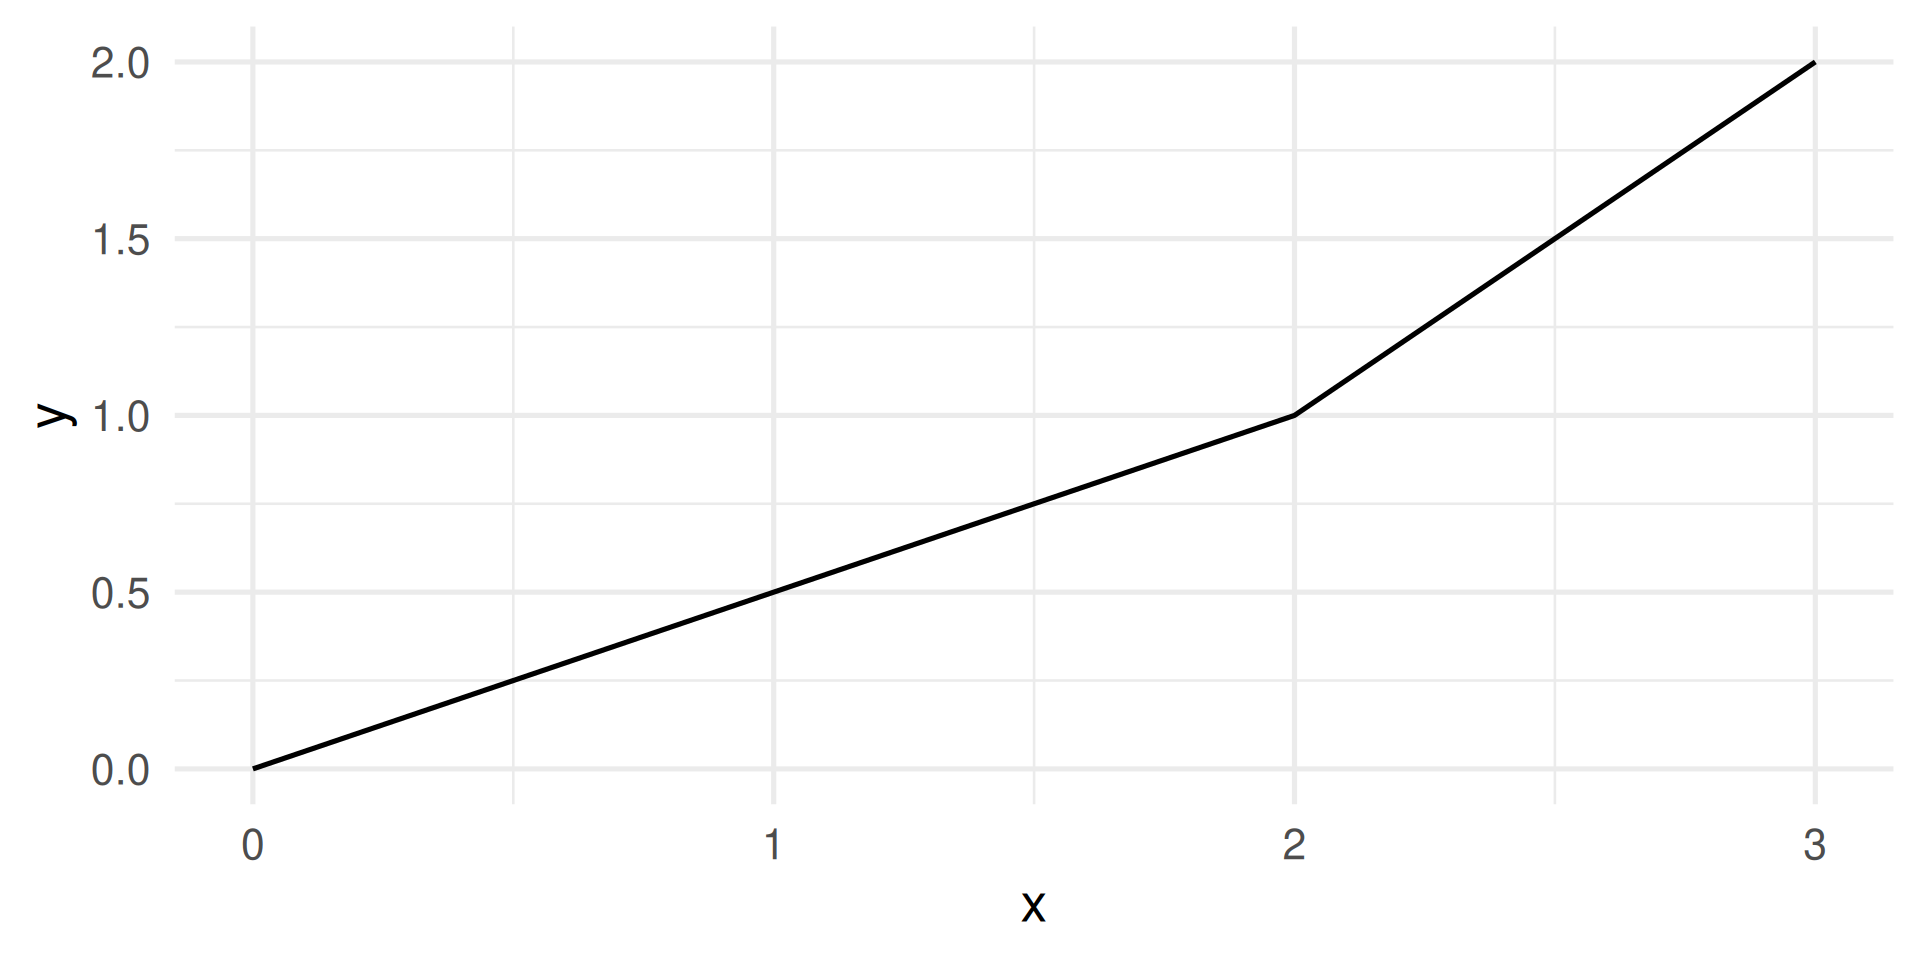
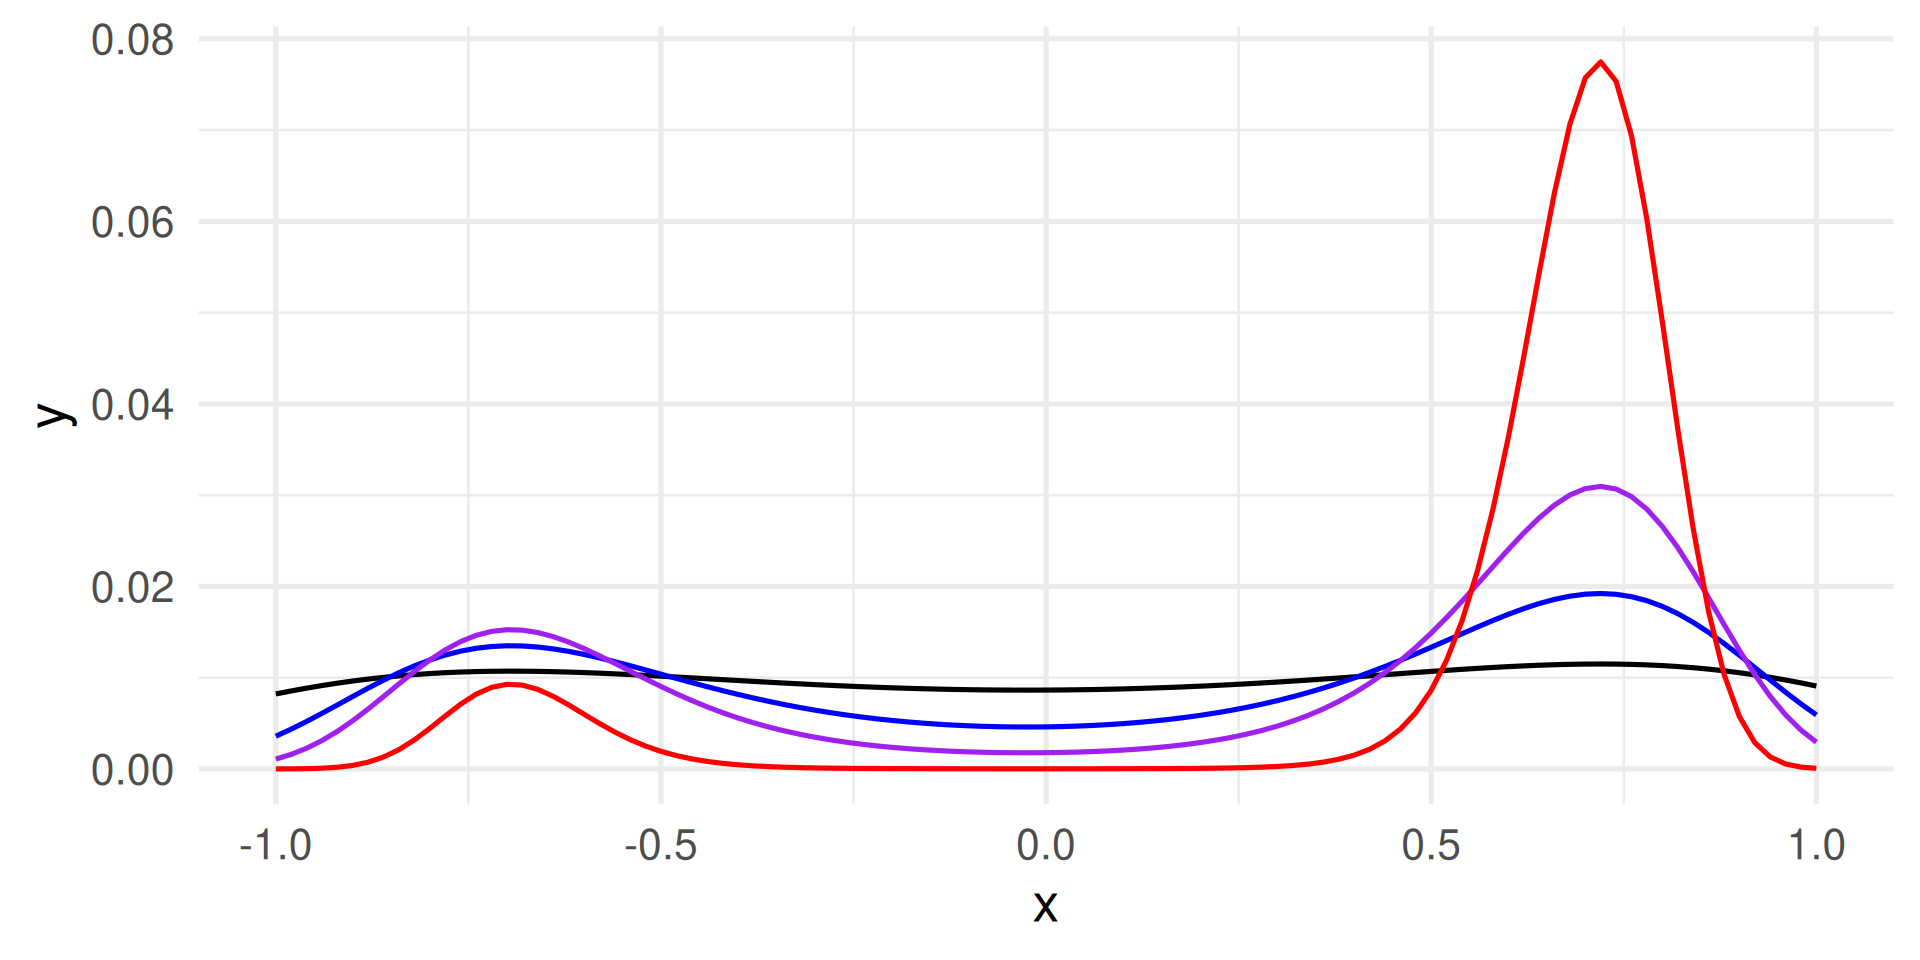
Built site for gh-pages

diff --git a/lectures/W04.html b/lectures/W04.html
@@ -1646,7 +1646,7 @@ You can think of the <em>coordinate system being stretched</em> multiplicatively
 </div>
 </div><div class="column fragment">
 <p>The domain of <span class="math inline">\(x\)</span> is the interval <span class="math inline">\([-1,+1]\)</span>.</p>
-<p><span class="math-red"><span class="math inline">\(\max\)</span></span> reports the maximal number of a <span class="math inline">\(f(x)\)</span> given the domain of <span class="math inline">\(x\)</span></p>
+<p><span class="math-red"><span class="math inline">\(\max\)</span></span> reports the maximum of <span class="math inline">\(f(x)\)</span> given the values in the domain of <span class="math inline">\(x\)</span></p>
 <p><span class="math inline">\(\max\limits_{x\in[-1,+1]} f(x) = 0.2849\)</span></p>
 <p><span class="math-blue"><span class="math inline">\(\operatorname*{argmax}\)</span></span> reports the value of <span class="math inline">\(x\)</span> from its domain where <span class="math inline">\(f(x)\)</span> achieves its maximal value</p>
 <p><span class="math inline">\(\operatorname*{argmax}\limits_{x\in[-1,1]} f(x) = 0.7\)</span></p>
@@ -1654,7 +1654,7 @@ You can think of the <em>coordinate system being stretched</em> multiplicatively
 <div class="fragment">
 <ul>
 <li>Analog concepts for the minimum <span class="math inline">\(\min\)</span></li>
-<li>Warning: The result for <span class="math inline">\(\operatorname*{argmax}\)</span> is not mathematically precise because computationally we only have <span class="math inline">\(x\)</span>-values in steps of 0.05.</li>
+<li>Warning: The result for <span class="math inline">\(\operatorname*{argmax}\)</span> is not mathematically precise because computationally we only have <span class="math inline">\(x\)</span>-values in steps of 0.05, in this computation.</li>
 </ul>
 </div>
 </section>
@@ -1770,7 +1770,7 @@ You can think of the <em>coordinate system being stretched</em> multiplicatively
 <section id="optimization" class="slide level2">
 <h2>Optimization</h2>
 <ul>
-<li>The field of <strong>mathematical optimization</strong> boils <span class="math inline">\(\operatorname*{argmax}\)</span>-ing an objective function.
+<li>The field of <span class="text-red"><strong>mathematical optimization</strong></span> boils down to <span class="text-red"><span class="math inline">\(\operatorname*{argmax}\)</span><strong>-ing an objective function</strong></span>.
 <ul>
 <li>The <strong>objective function</strong> specifies what we want to have.
 <ul>
@@ -1790,7 +1790,7 @@ You can think of the <em>coordinate system being stretched</em> multiplicatively
 </section>
 <section id="softmax" class="slide level2 scrollable">
 <h2>Softmax</h2>
-<p>$ A core concept of <em>approximate optimization</em> is using a <strong>Softmax</strong>-function</p>
+<p>A core concept of <em>approximate optimization</em> is using a <strong>Softmax</strong>-function</p>
 <p><span class="math inline">\(f: \mathbb{R}^K \to [0,1]^K\)</span></p>
 <p>which maps <span class="math inline">\(K\)</span> real numbers to <span class="math inline">\(K\)</span> numbers between 0 and 1.</p>
 <div class="fragment">
@@ -1833,7 +1833,7 @@ You can think of the <em>coordinate system being stretched</em> multiplicatively
 <pre><code>[1] 1</code></pre>
 </div>
 </div>
-<p>So, we can interprete it as a probability distribution. We look at it again later.</p>
+<p>So, we can interprete it as a <strong>probability distribution</strong>. We look at it again later.</p>
 </div>
 </section></section>
 <section>
@@ -1869,6 +1869,7 @@ You can think of the <em>coordinate system being stretched</em> multiplicatively
 <pre><code>[1] "function"</code></pre>
 </div>
 </div>
+<div class="fragment">
 <p>Calling the function without brackets writes its code or some information.</p>
 <div class="cell">
 <div class="code-copy-outer-scaffold"><div class="sourceCode cell-code" id="cb163"><pre class="sourceCode numberSource r number-lines code-with-copy"><code class="sourceCode r"><span id="cb163-1"><a></a>sd <span class="co"># This function is written in R, and we see its code</span></span></code></pre></div><button title="Copy to Clipboard" class="code-copy-button"><i class="bi"></i></button></div>
@@ -1876,21 +1877,30 @@ You can think of the <em>coordinate system being stretched</em> multiplicatively
 <pre><code>function (x, na.rm = FALSE) 
 sqrt(var(if (is.vector(x) || is.factor(x)) x else as.double(x), 
     na.rm = na.rm))
-&lt;bytecode: 0x57ecb6ca5a58&gt;
+&lt;bytecode: 0x5cf6aa267e88&gt;
 &lt;environment: namespace:stats&gt;</code></pre>
 </div>
+</div>
+</div>
+<div class="fragment">
+<div class="cell">
 <div class="code-copy-outer-scaffold"><div class="sourceCode cell-code" id="cb165"><pre class="sourceCode numberSource r number-lines code-with-copy"><code class="sourceCode r"><span id="cb165-1"><a></a>c <span class="co"># This function is not written in R but is a R primitive</span></span></code></pre></div><button title="Copy to Clipboard" class="code-copy-button"><i class="bi"></i></button></div>
 <div class="cell-output cell-output-stdout">
 <pre><code>function (...)  .Primitive("c")</code></pre>
 </div>
+</div>
+</div>
+<div class="fragment">
+<div class="cell">
 <div class="code-copy-outer-scaffold"><div class="sourceCode cell-code" id="cb167"><pre class="sourceCode numberSource r number-lines code-with-copy"><code class="sourceCode r"><span id="cb167-1"><a></a>ggplot2<span class="sc">::</span>ggplot <span class="co"># This function is not written solely in R</span></span></code></pre></div><button title="Copy to Clipboard" class="code-copy-button"><i class="bi"></i></button></div>
 <div class="cell-output cell-output-stdout">
 <pre><code>function (data = NULL, mapping = aes(), ..., environment = parent.frame()) 
 {
     UseMethod("ggplot")
 }
-&lt;bytecode: 0x57ecb73b2440&gt;
+&lt;bytecode: 0x5cf6aa68b2b8&gt;
 &lt;environment: namespace:ggplot2&gt;</code></pre>
+</div>
 </div>
 </div>
 </section>
@@ -1906,6 +1916,7 @@ sqrt(var(if (is.vector(x) || is.factor(x)) x else as.double(x),
 <pre><code>[1] 11</code></pre>
 </div>
 </div>
+<div class="fragment">
 <p>The skeleton for a function definition is</p>
 <div class="code-copy-outer-scaffold"><div class="sourceCode" id="cb171"><pre class="sourceCode numberSource r number-lines code-with-copy"><code class="sourceCode r"><span id="cb171-1"><a></a>function_name <span class="ot">&lt;-</span> <span class="cf">function</span>(input){</span>
 <span id="cb171-2"><a></a>  <span class="co"># do something with the input(s)</span></span>
@@ -1918,6 +1929,7 @@ sqrt(var(if (is.vector(x) || is.factor(x)) x else as.double(x),
 <li>When the body or the function is only one line <code>{}</code> can be omitted. For example<br>
 <code>add_one &lt;- function(x) x + 1</code></li>
 </ul>
+</div>
 </section>
 <section id="flexibility-of-inputs-and-outputs" class="slide level2 smaller">
 <h2>Flexibility of inputs and outputs</h2>
@@ -2032,7 +2044,7 @@ $out2
 <span id="cb190-4"><a></a>data <span class="sc">|&gt;</span> <span class="fu">ggplot</span>(<span class="fu">aes</span>(x, y)) <span class="sc">+</span> <span class="fu">geom_line</span>() <span class="sc">+</span> <span class="fu">theme_minimal</span>(<span class="at">base_size =</span> <span class="dv">20</span>)</span></code></pre></div><button title="Copy to Clipboard" class="code-copy-button"><i class="bi"></i></button></div>
 
 </div>
-<img data-src="W04_files/figure-revealjs/unnamed-chunk-84-1.png" width="960" class="r-stretch"></section>
+<img data-src="W04_files/figure-revealjs/unnamed-chunk-86-1.png" width="960" class="r-stretch"></section>
 <section id="conveniently-ggploting-functions" class="slide level2">
 <h2>Conveniently <code>ggplot</code>ing functions</h2>
 <div class="cell">
@@ -2042,7 +2054,7 @@ $out2
 <span id="cb191-4"><a></a>  <span class="fu">theme_minimal</span>(<span class="at">base_size =</span> <span class="dv">20</span>)</span></code></pre></div><button title="Copy to Clipboard" class="code-copy-button"><i class="bi"></i></button></div>
 
 </div>
-<img data-src="W04_files/figure-revealjs/unnamed-chunk-85-1.png" width="480" class="r-stretch"><p>Code line 3 shows another important concept: <strong>anonymous functions</strong>. The function <code>function(x) 3*x - 4</code> is defined <em>on the fly</em> without a name.</p>
+<img data-src="W04_files/figure-revealjs/unnamed-chunk-87-1.png" width="480" class="r-stretch"><p>Code line 3 shows another important concept: <strong>anonymous functions</strong>. The function <code>function(x) 3*x - 4</code> is defined <em>on the fly</em> without a name.</p>
 </section>
 <section id="softmax-example" class="slide level2">
 <h2>Softmax example</h2>
@@ -2057,11 +2069,15 @@ $out2
 <span id="cb192-5"><a></a>  <span class="fu">geom_function</span>(<span class="at">fun =</span> <span class="cf">function</span>(x) <span class="fu">softmax</span>(<span class="fu">f</span>(x), <span class="at">beta =</span> <span class="dv">5</span>), <span class="at">color =</span> <span class="st">"blue"</span>) <span class="sc">+</span></span>
 <span id="cb192-6"><a></a>  <span class="fu">geom_function</span>(<span class="at">fun =</span> <span class="cf">function</span>(x) <span class="fu">softmax</span>(<span class="fu">f</span>(x), <span class="at">beta =</span> <span class="dv">10</span>), <span class="at">color =</span> <span class="st">"purple"</span>) <span class="sc">+</span></span>
 <span id="cb192-7"><a></a>  <span class="fu">geom_function</span>(<span class="at">fun =</span> <span class="cf">function</span>(x) <span class="fu">softmax</span>(<span class="fu">f</span>(x), <span class="at">beta =</span> <span class="dv">30</span>), <span class="at">color =</span> <span class="st">"red"</span>) <span class="sc">+</span></span>
-<span id="cb192-8"><a></a>  <span class="fu">xlim</span>(<span class="fu">c</span>(<span class="sc">-</span><span class="dv">1</span>, <span class="dv">1</span>))</span></code></pre></div><button title="Copy to Clipboard" class="code-copy-button"><i class="bi"></i></button></div>
+<span id="cb192-8"><a></a>  <span class="fu">xlim</span>(<span class="fu">c</span>(<span class="sc">-</span><span class="dv">1</span>, <span class="dv">1</span>)) <span class="sc">+</span></span>
+<span id="cb192-9"><a></a>  <span class="fu">theme_minimal</span>(<span class="at">base_size =</span> <span class="dv">20</span>)</span></code></pre></div><button title="Copy to Clipboard" class="code-copy-button"><i class="bi"></i></button></div>
 </details>
 
 </div>
-<img data-src="W04_files/figure-revealjs/unnamed-chunk-86-1.png" width="960" class="r-stretch"><p>The peak around the strict <span class="math inline">\(\operatorname{argmax}\)</span> becomes more and more pronounced the larger <span class="math inline">\(\beta\)</span> is!</p>
+<img data-src="W04_files/figure-revealjs/unnamed-chunk-88-1.png" width="960" class="r-stretch"><ul>
+<li>The peak around the strict <span class="math inline">\(\operatorname{argmax}\)</span> becomes more and more pronounced the larger <span class="math inline">\(\beta\)</span> is!</li>
+<li><em>Softmax</em> means that we select the <span class="math inline">\(\operatorname{argmax}\)</span> more likely but not for sure. <span class="math inline">\(\beta\)</span> controls how close we become to select it for sure.</li>
+</ul>
 </section></section>
 <section>
 <section id="conditional-statements-if-and-iteration-map" class="title-slide slide level1 center">
@@ -2154,7 +2170,7 @@ $out2
 <div class="cell-output-display">
 <div>
 <figure>
-<p><img data-src="W04_files/figure-revealjs/unnamed-chunk-90-1.png" width="960"></p>
+<p><img data-src="W04_files/figure-revealjs/unnamed-chunk-92-1.png" width="960"></p>
 </figure>
 </div>
 </div>
